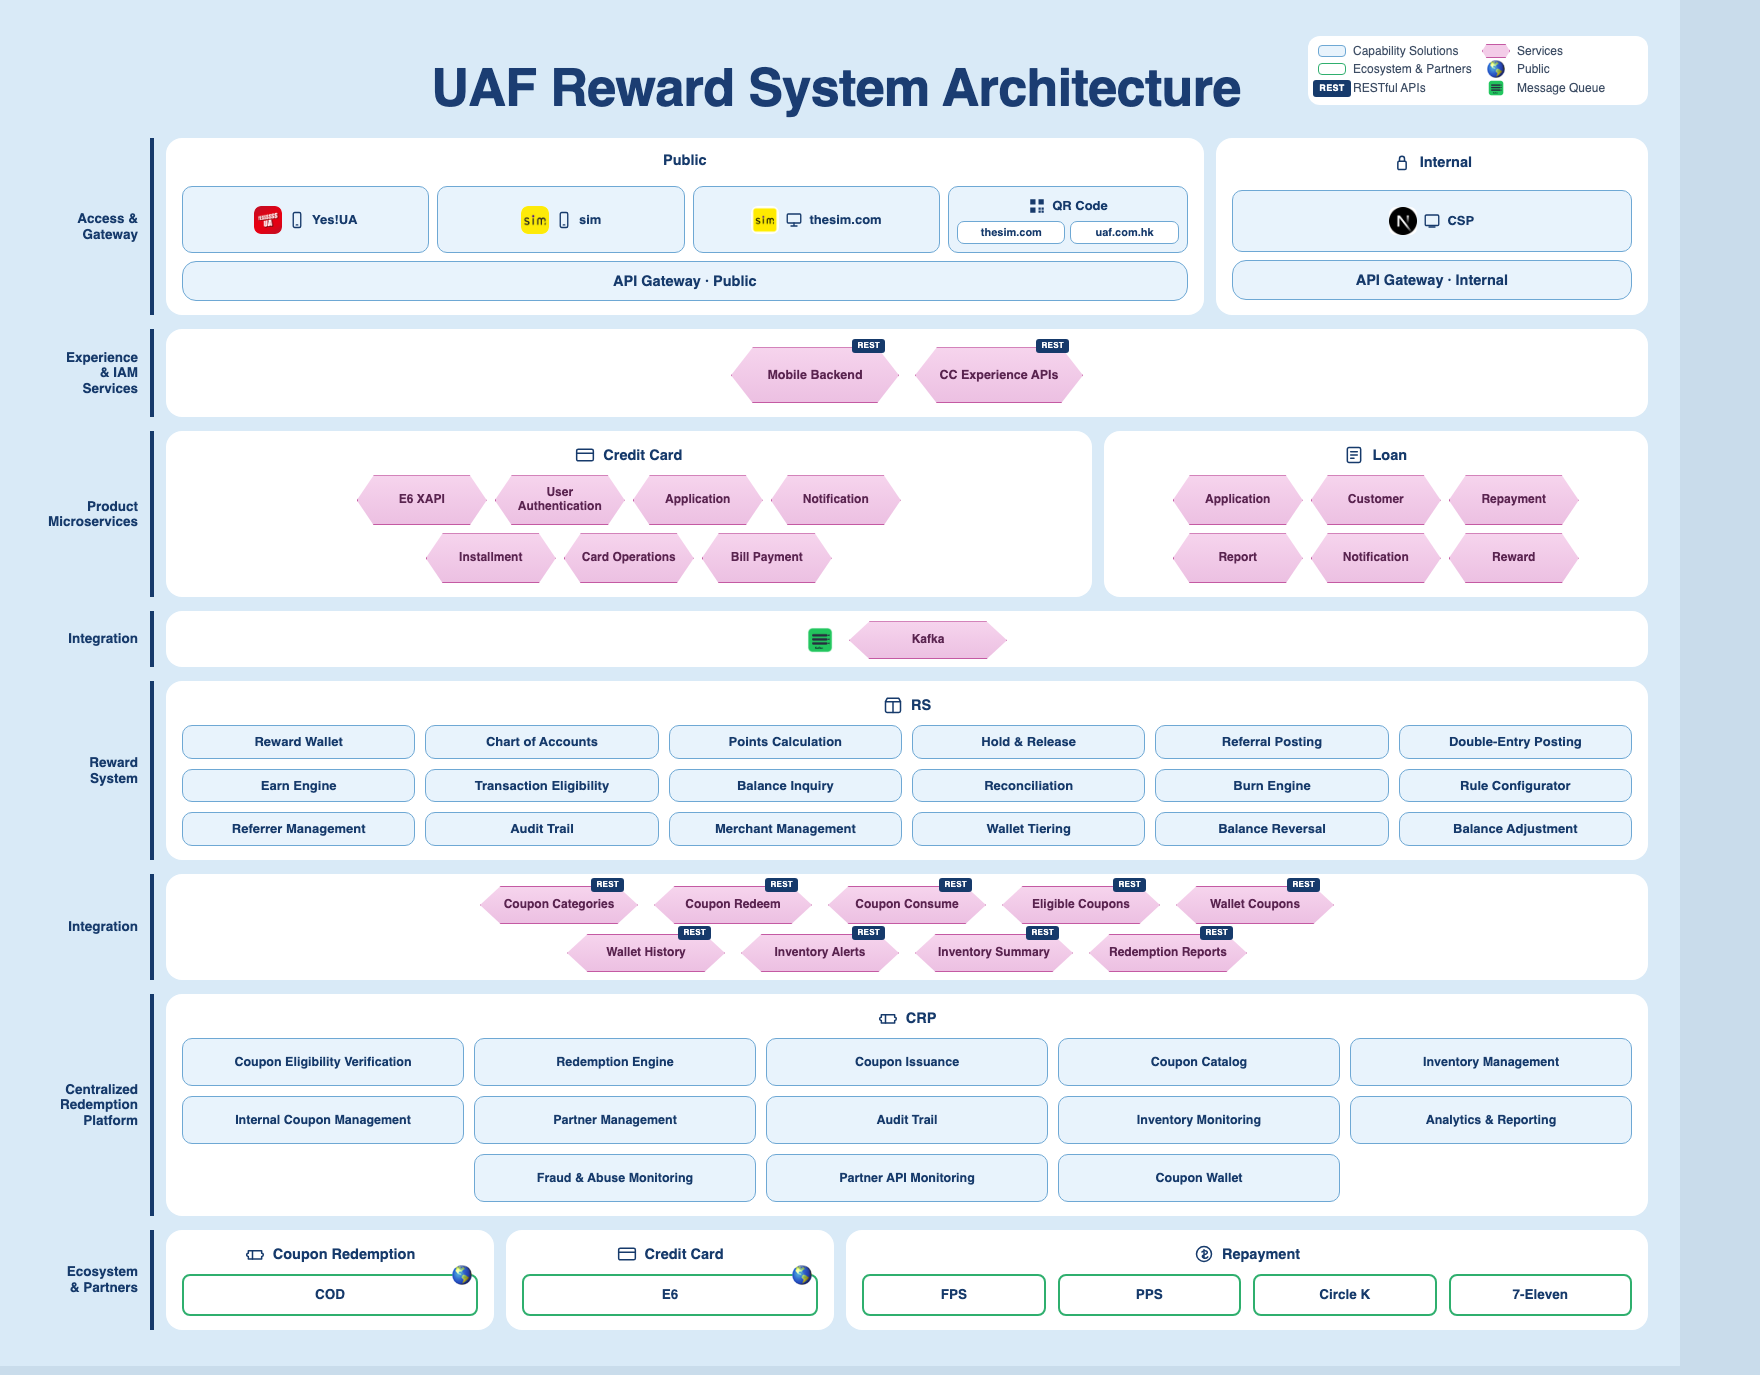
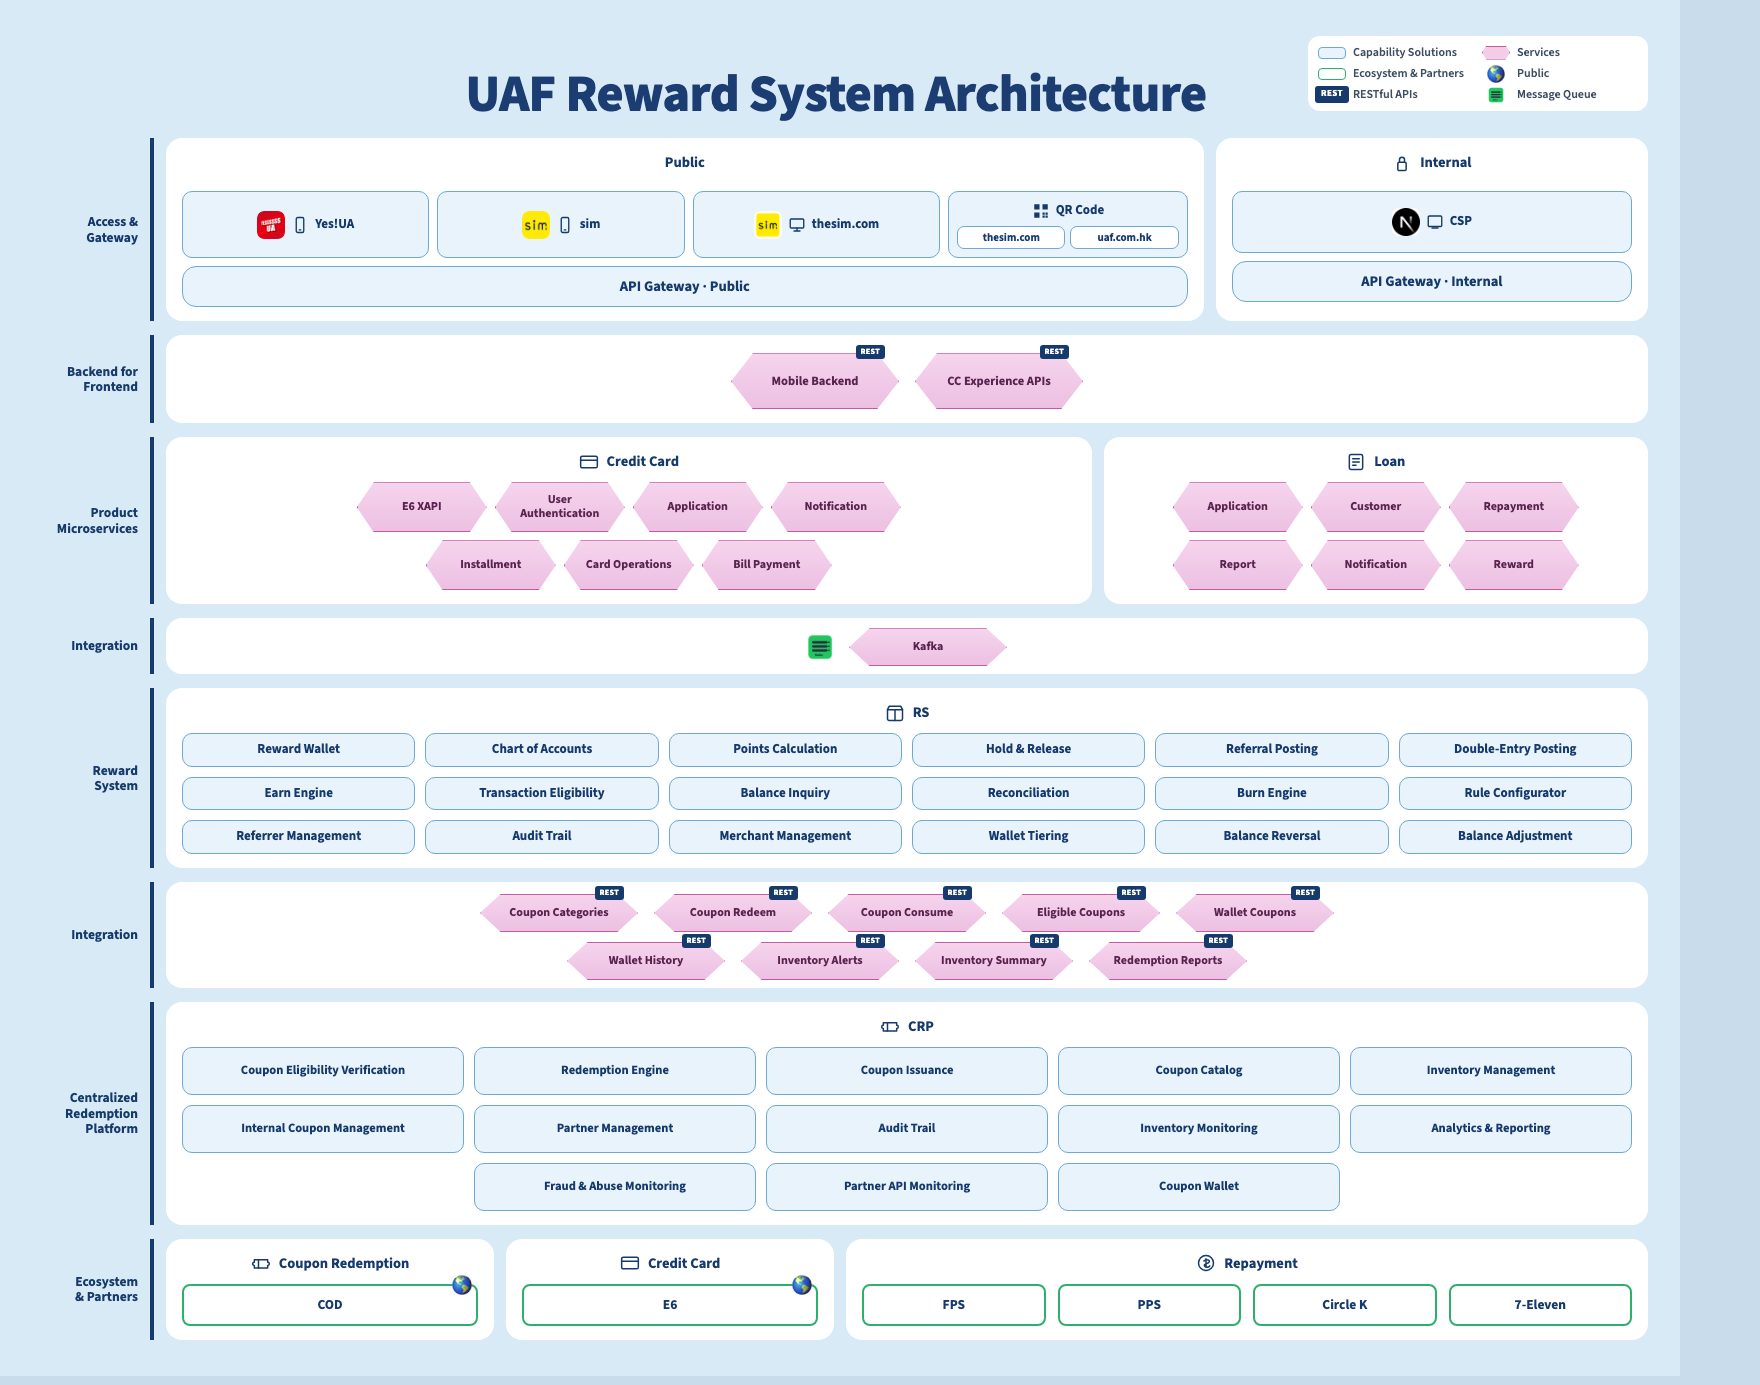
docs(decks): Experience & IAM Services renamed Backend for Frontend

diff --git a/docs/decks/uaf-rewards-logical-architecture.html b/docs/decks/uaf-rewards-logical-architecture.html
@@ -166,7 +166,7 @@
       </div>
     </div>
 
-    <div class="lab l3">Experience<br>&amp; IAM<br>Services</div>
+    <div class="lab l3">Backend for<br>Frontend</div>
     <div class="card c3 hexrow" style="padding-top:18px">
       <div class="svcw"><div class="svc">Mobile Backend</div><span class="badge-rest">REST</span></div>
       <div class="svcw"><div class="svc">CC Experience APIs</div><span class="badge-rest">REST</span></div>
